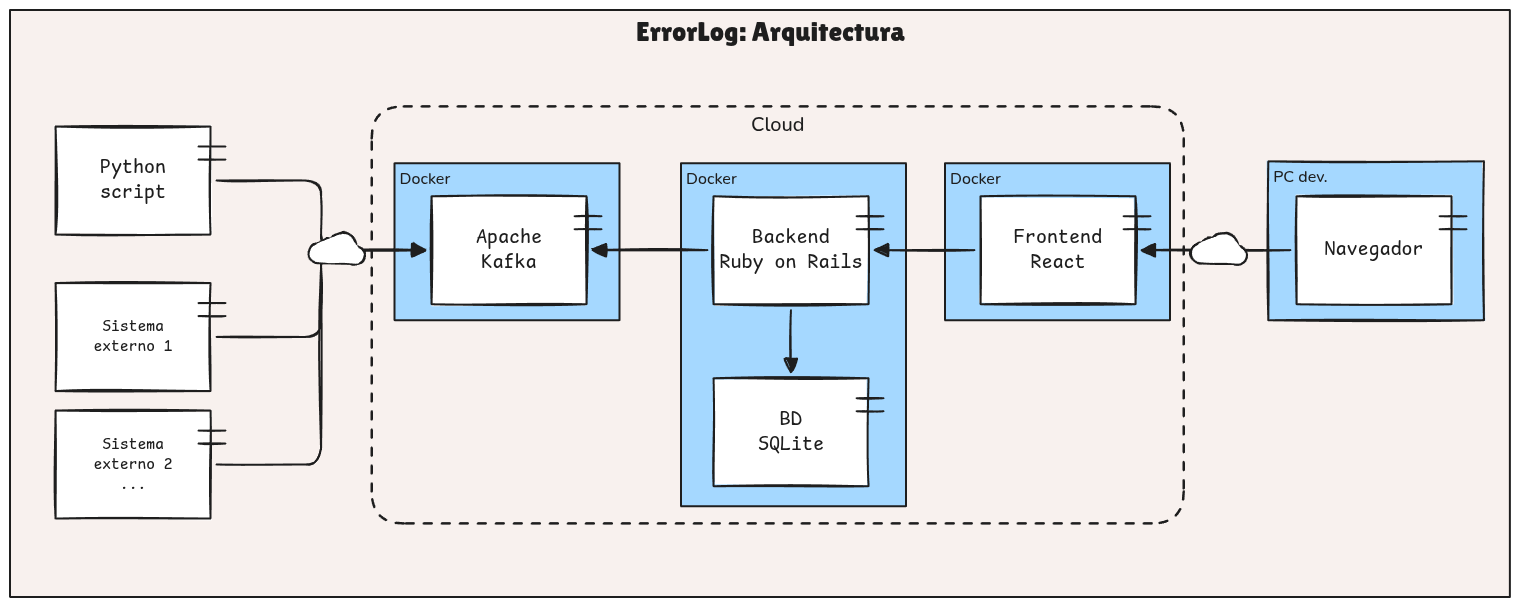
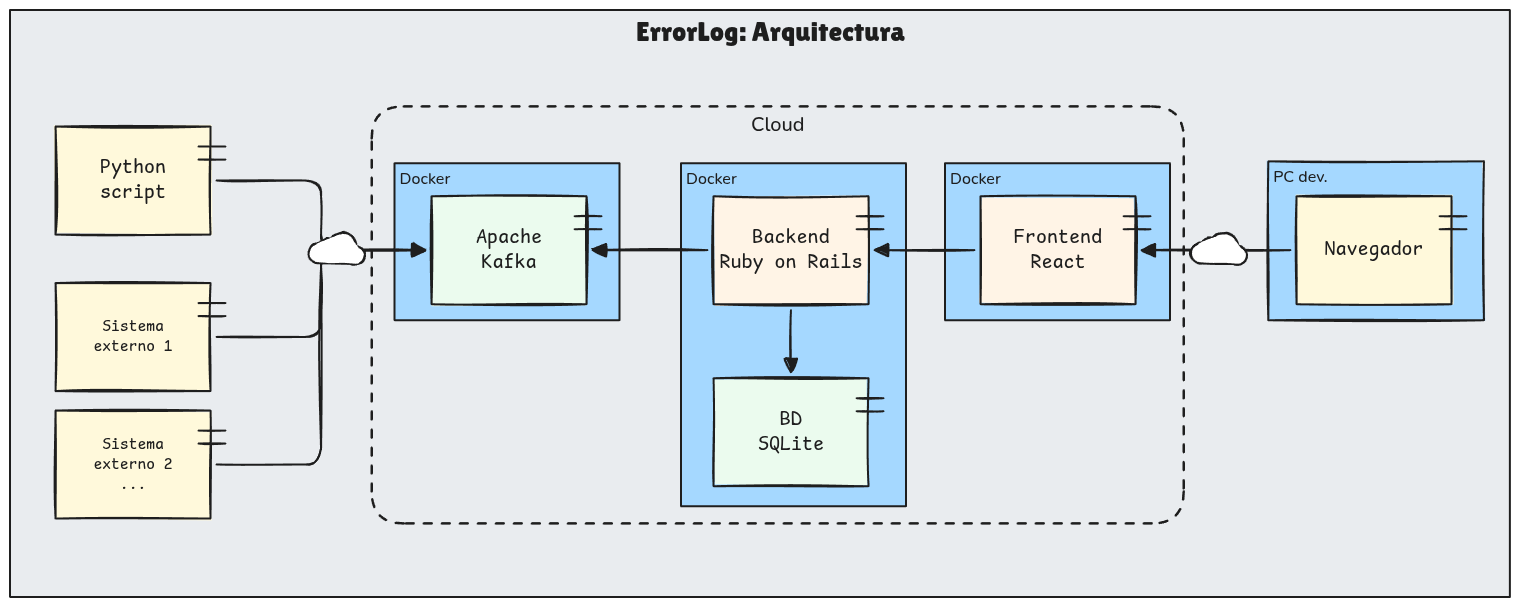
Arquitectura

diff --git a/docs/arquitectura.md b/docs/arquitectura.md
@@ -1,7 +1,7 @@
 
 # Arquitectura
 
-## Módulos
+## Componentes e infraestructura
 
 El sistema consiste en tres módulos principales, más algunos módulos auxiliares:
 
@@ -24,6 +24,8 @@ En definitiva, una imagen Docker distinta para cada uno de los siguientes:
 - Servicio de Kafka
 - Backend Ruby + BD SQLite
 - Frontend React
+
+![](arquitectura.png)
 
 ## Sistema de Archivos
 
